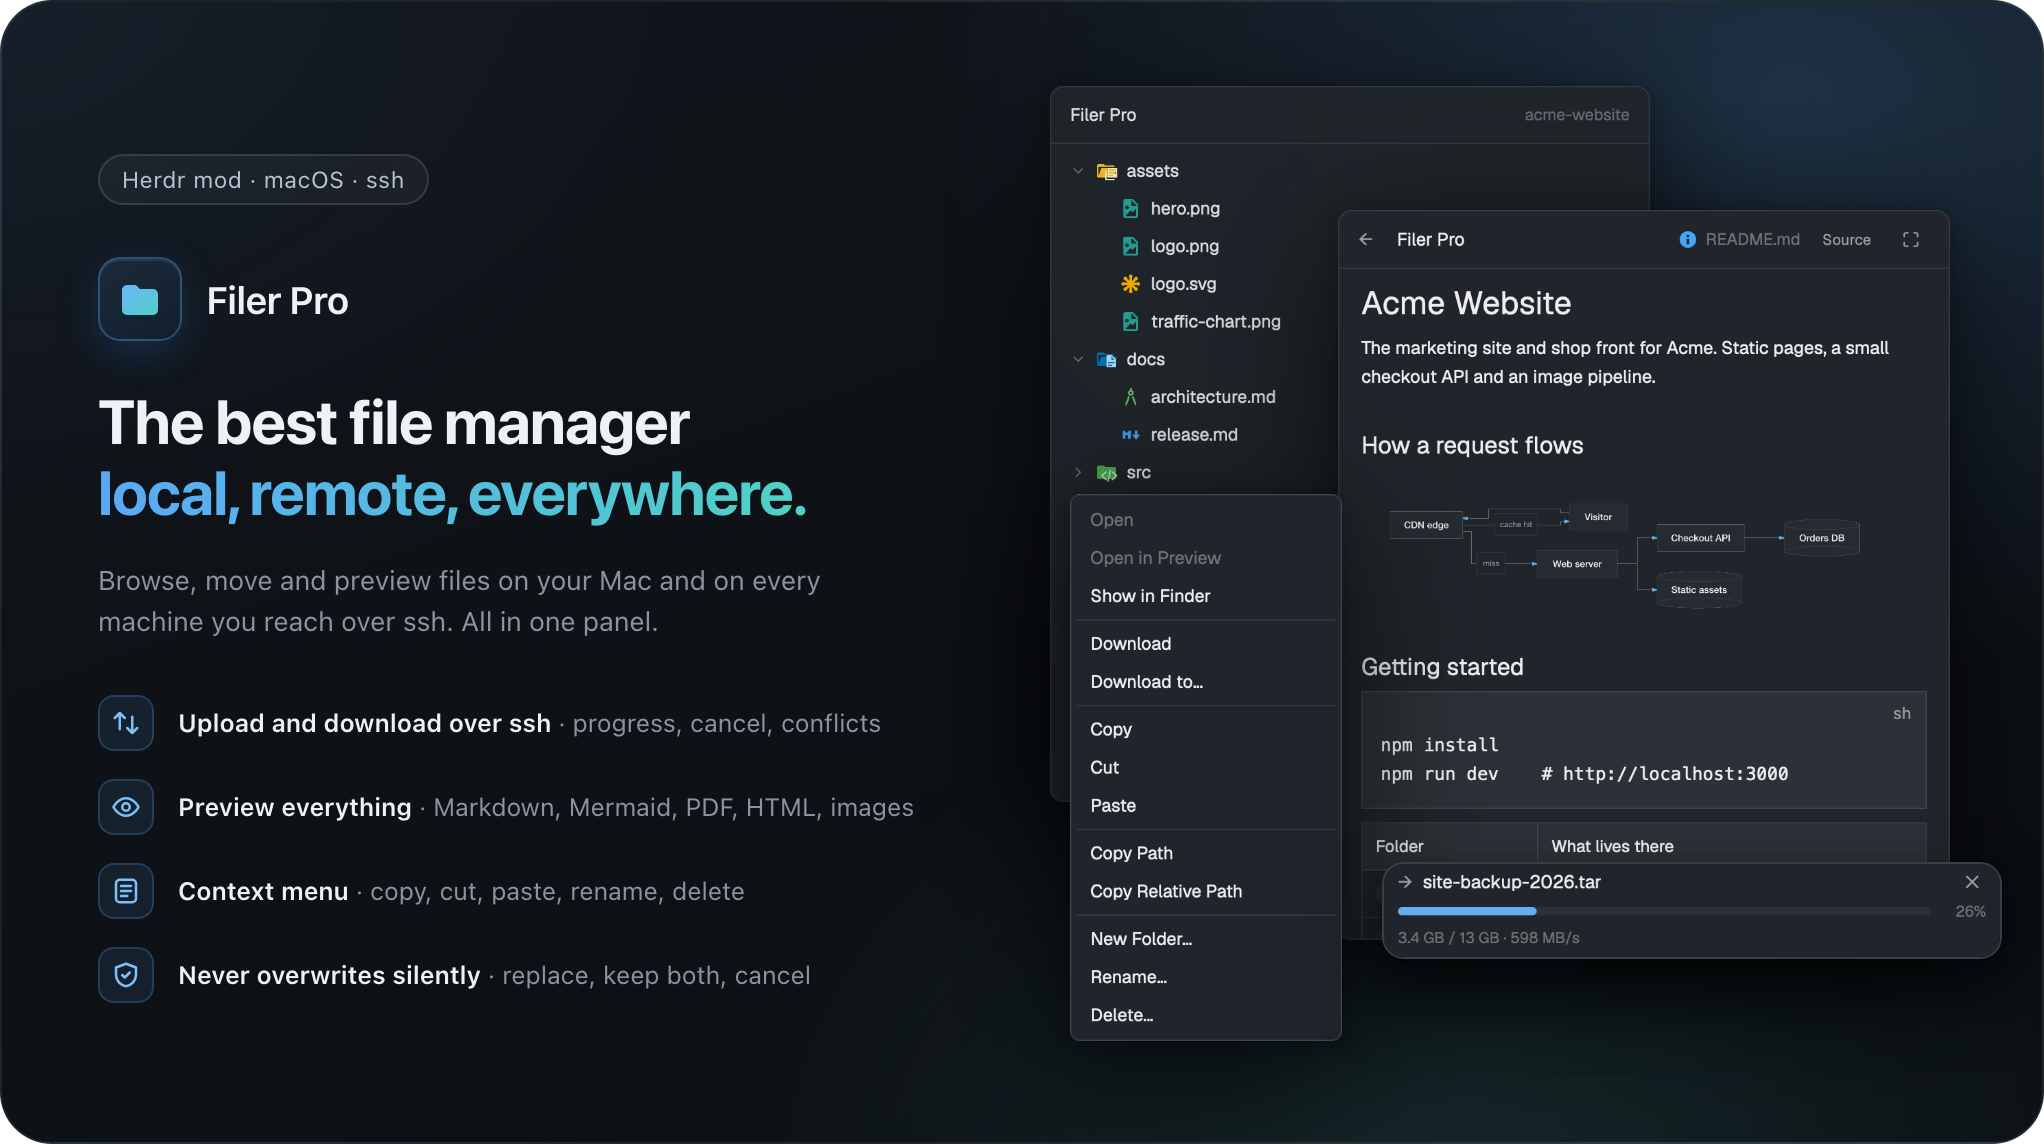
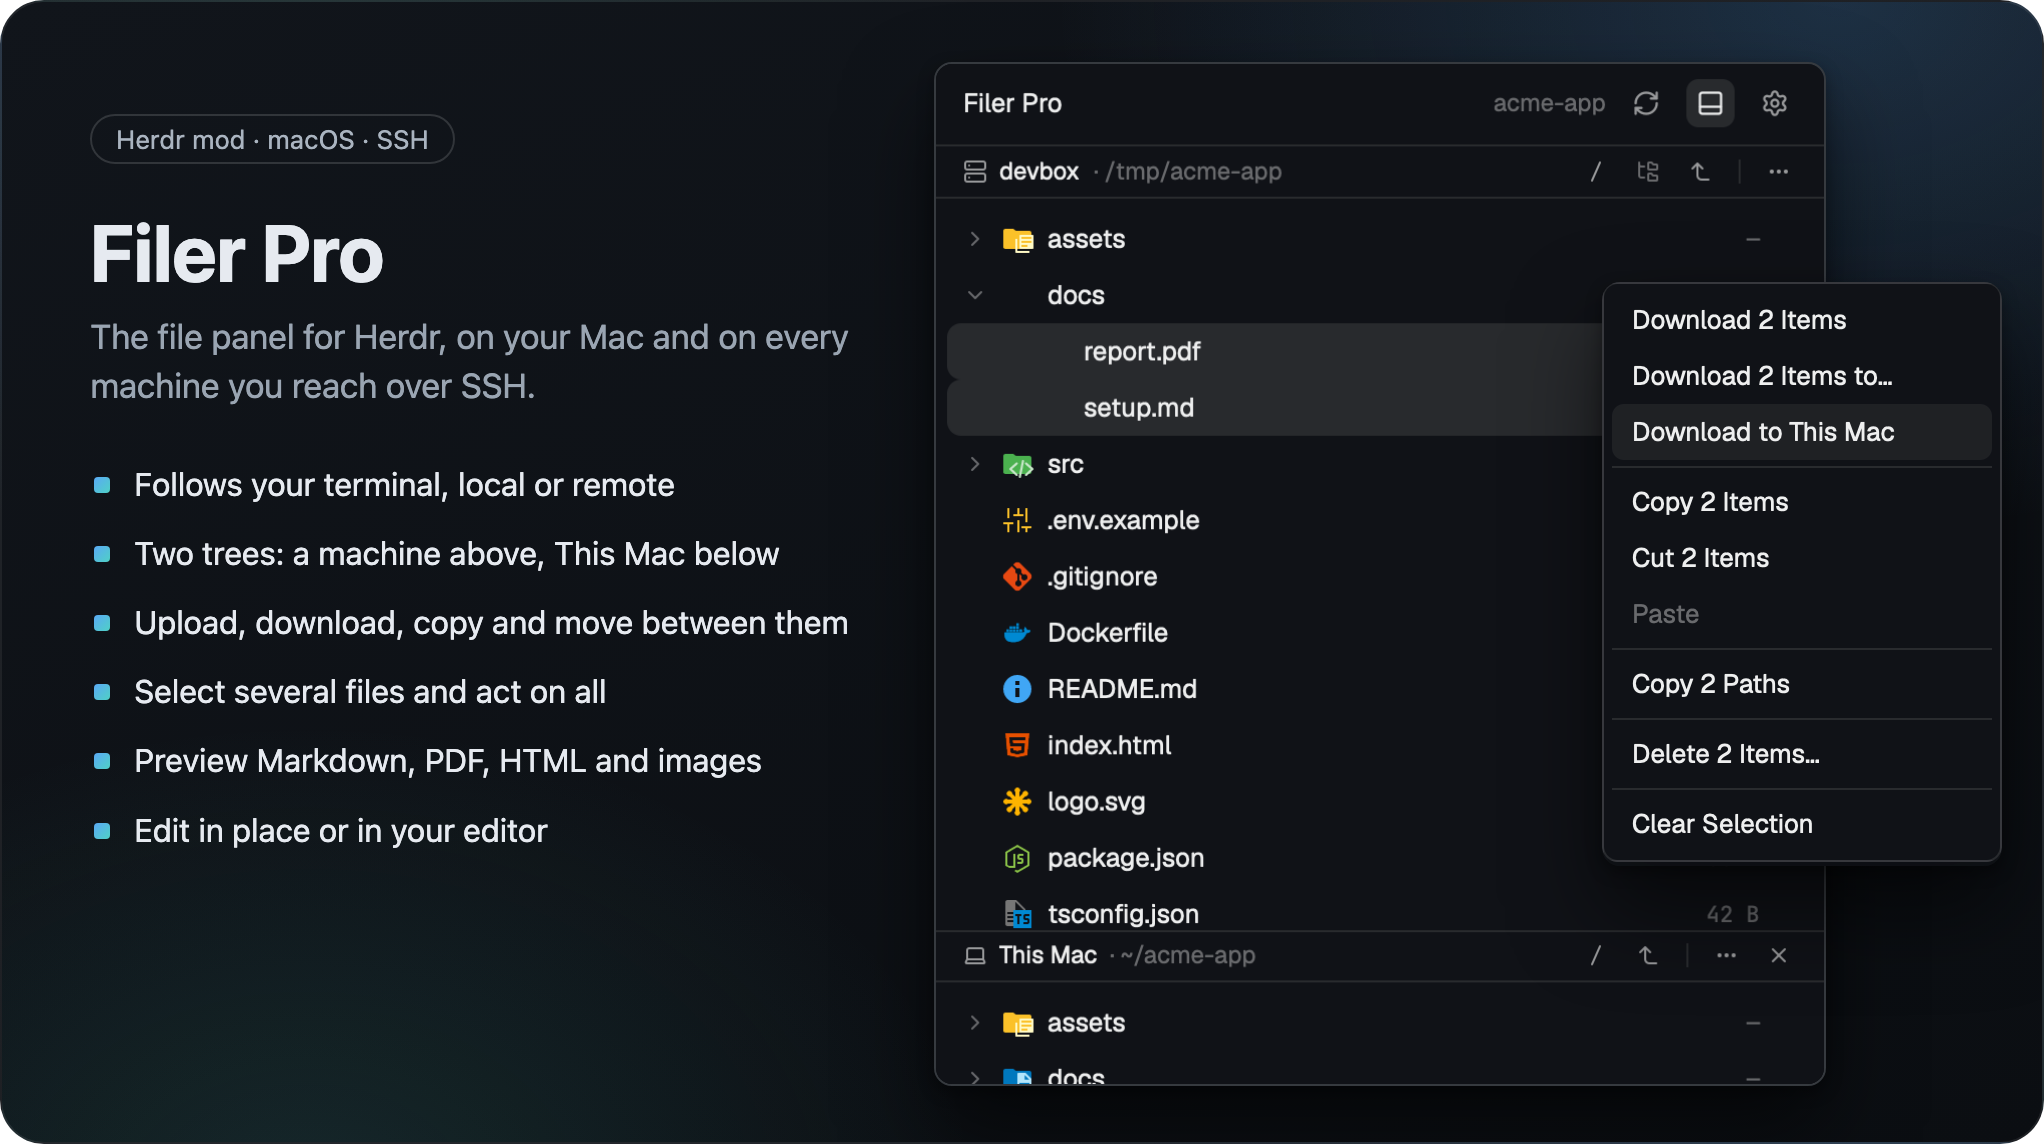
docs: hero and transfers cards for 1.4
- preview.png is a card now (cards/hero.html): the devbox tree over This
  Mac with two files selected and their menu, the key features as text
- transfers.png from two shots: a download in the transfers bar and the
  conflict dialog, both set through the demo hook (nothing runs)
- demo-hook.mjs: jobs and conflict ops

diff --git a/scripts/screenshots/cards/hero.html b/scripts/screenshots/cards/hero.html
@@ -1,0 +1,35 @@
+<!DOCTYPE html>
+<html lang="en"><head><meta charset="utf-8"><title>Hero card</title>
+<link rel="stylesheet" href="card.css">
+<style>
+/* layout: the README hero. Left: name, tagline and the key features as text. Right: the devbox tree over This Mac with two
+   files selected, the menu for both beside it. The bullets follow the README intro. */
+html, body { width: 1022px; height: 572px; }
+.copy { position: absolute; left: 44px; top: 56px; width: 400px; color: #e6eaf0; font-family: -apple-system, "SF Pro Text", "Inter", system-ui, sans-serif; }
+.badge { display: inline-block; font-size: 13px; color: #aab4c0; border: 1px solid rgba(255,255,255,0.14); border-radius: 999px; padding: 4px 12px; }
+h1 { font-size: 40px; line-height: 1.1; font-weight: 700; margin: 22px 0 8px; letter-spacing: -0.01em; }
+.tag { font-size: 17px; line-height: 1.45; color: #9aa5b2; margin-bottom: 26px; }
+ul { list-style: none; display: grid; gap: 13px; }
+li { font-size: 16px; line-height: 1.35; padding-left: 22px; position: relative; }
+li::before { content: ""; position: absolute; left: 2px; top: 7px; width: 8px; height: 8px; border-radius: 2px; background: linear-gradient(135deg, #5aa9f5, #4fd1c5); }
+.tree { left: 466px; top: 30px; width: 446px; height: 512px; }
+.shot.cut.tree { border-color: #363a3f; }
+.menu { left: 800px; top: 140px; width: 200px; border-radius: 9px; }
+</style></head>
+<body><div class="frame">
+  <div class="copy">
+    <span class="badge">Herdr mod · macOS · SSH</span>
+    <h1>Filer Pro</h1>
+    <div class="tag">The file panel for Herdr, on your Mac and on every machine you reach over SSH.</div>
+    <ul>
+      <li>Follows your terminal, local or remote</li>
+      <li>Two trees: a machine above, This Mac below</li>
+      <li>Upload, download, copy and move between them</li>
+      <li>Select several files and act on all</li>
+      <li>Preview Markdown, PDF, HTML and images</li>
+      <li>Edit in place or in your editor</li>
+    </ul>
+  </div>
+  <div class="shot cut tree"><img src="hero-tree.png" alt=""></div>
+  <div class="shot menu"><img src="hero-menu.png" alt=""></div>
+</div></body></html>

diff --git a/scripts/screenshots/cards/transfers.html b/scripts/screenshots/cards/transfers.html
@@ -1,0 +1,13 @@
+<!DOCTYPE html>
+<html lang="en"><head><meta charset="utf-8"><title>Transfers card</title>
+<link rel="stylesheet" href="card.css">
+<style>
+/* layout: the devbox tree over This Mac with a download in the transfers bar at the bottom, the conflict dialog over its right half */
+html, body { width: 880px; height: 792px; }
+.tree { left: 60px; top: 30px; width: 446px; height: 732px; }
+.dialog { left: 400px; top: 250px; width: 440px; height: 240px; }
+</style></head>
+<body><div class="frame">
+  <div class="shot cut tree"><img src="transfers-tree.png" alt=""></div>
+  <div class="shot dialog"><img src="transfers-dialog.png" alt=""></div>
+</div></body></html>

diff --git a/scripts/screenshots/README.md b/scripts/screenshots/README.md
@@ -8,9 +8,9 @@ The README images in `screenshots/` are cards: crops of a running Herdr window, 
 scripts/screenshots/shoot.sh
 ```
 
-`scripts/screenshots/shoot.sh browse extract` shoots only the named cards (preview, formats, browse, editors, extract, edit-terminal, pdf-fullscreen, settings, show-as-root, select, machine, folder-actions); `CROP_ONLY=1` re-crops and renders from the raw shots in `tmp/shots-raw` without launching anything.
+`scripts/screenshots/shoot.sh browse extract` shoots only the named cards (preview, formats, browse, editors, extract, edit-terminal, pdf-fullscreen, settings, show-as-root, select, machine, folder-actions, transfers, hero); `hero` renders `preview.png` at the top of the README, with its feature list as text on the card (`cards/hero.html`, keep it in line with the README intro); `CROP_ONLY=1` re-crops and renders from the raw shots in `tmp/shots-raw` without launching anything.
 
-`machine` and `folder-actions` show a machine tree and need an SSH host: `DEMO_MACHINE=<ssh target> scripts/screenshots/shoot.sh`. The host shows as `devbox` and gets the demo project in `/tmp/acme-app` (a machine tree shows the full path, so a folder below `/home/<user>` would show the user name). Without `DEMO_MACHINE` both cards are skipped.
+`machine`, `folder-actions`, `transfers` and `hero` show a machine tree and need an SSH host: `DEMO_MACHINE=<ssh target> scripts/screenshots/shoot.sh`. The host shows as `devbox` and gets the demo project in `/tmp/acme-app` (a machine tree shows the full path, so a folder below `/home/<user>` would show the user name). Without `DEMO_MACHINE` these cards are skipped.
 
 It prepares a separate Herdr instance, launches it once, sets every state without mouse or keyboard, takes the shots, quits the instance, crops them and renders all cards into `screenshots/`. Needs macOS, Herdr.app, Microsoft Edge (headless, no window), `node`, `zip` and `sips`. Look at every image before you commit it: no user name, no path outside `~/acme-app` (and `/tmp/acme-app` on `devbox`), no real host name.
 
@@ -22,7 +22,7 @@ What it never does: touch your own Herdr or its installed mod, use `osascript`, 
 
 - `shoot.sh`: the whole run (prepare, launch, drive, shoot, quit, clean, crop, render). The crop boxes are raw pixels of the default window (1280 x 820 points at 2x, panel 446 points wide, app zoom 1); it stops when the window has another size.
 - `demo-instance.sh`: `prepare | start | space | machine | quit | clean` for the separate instance. Its `HERDR_APP_HOME` is `tmp/shots-home` and its core session `filerpro-shots`. `prepare` copies `demo/acme-app` to `~/acme-app` (the pane header shows that path, and it refuses to overwrite an existing folder), generates `report.pdf`, `hero.png` and `release.zip` from `demo/gen/` (headless Edge, `zip`), copies the mod of this checkout and writes a layout with the panel shown. It also marks the welcome screen (`frame.welcomed` in `shared.json`) and the what's-new window (`last_run` in `update-notes.json`) as done, so a new instance opens no popup that would need a click. `machine` copies the demo to `/tmp/acme-app` on `DEMO_MACHINE` (it refuses to overwrite) and adds that host to this instance's core only, as `devbox`, with its own hc session there: `~/.ssh/config` and the machines of your own Herdr stay as they are. `clean` deletes both again, the remote session included.
-- `demo-hook.mjs`: patches the instance's copy of the mod (never `mods/filer-pro`, never your installed mod) so the panel polls `$HERDR_APP_HOME/demo-cmd.json` and sets the state a click or hover would set, through the real code: expanded folders, Calculate Size, the row menu with one entry hovered, the Settings dialog scrolled to a section, the fullscreen PDF with two pages, the lower tree on or off (`{"op":"localtree","shown":true}`, optional `root` and `sizes`), a selection (`{"op":"select","paths":[…],"boxes":true}`), the Folder actions menu (`rootmenu`). `"tree":"pinned"` points a command at the lower tree. It stops loudly when an anchor in the mod has moved; `test/screenshot-hook.test.js` applies it to the current mod on every `npm test`, and checks that the shipped mod has no trace of it.
+- `demo-hook.mjs`: patches the instance's copy of the mod (never `mods/filer-pro`, never your installed mod) so the panel polls `$HERDR_APP_HOME/demo-cmd.json` and sets the state a click or hover would set, through the real code: expanded folders, Calculate Size, the row menu with one entry hovered, the Settings dialog scrolled to a section, the fullscreen PDF with two pages, the lower tree on or off (`{"op":"localtree","shown":true}`, optional `root` and `sizes`), a selection (`{"op":"select","paths":[…],"boxes":true}`), the Folder actions menu (`rootmenu`), a made-up job in the transfers bar (`jobs`: shown only, nothing runs) and the conflict dialog with a made-up case (`conflict`). `"tree":"pinned"` points a command at the lower tree. It stops loudly when an anchor in the mod has moved; `test/screenshot-hook.test.js` applies it to the current mod on every `npm test`, and checks that the shipped mod has no trace of it.
 - `render.sh`: renders a card into a PNG with headless Microsoft Edge (`EDGE=/path/to/browser` picks another Chromium-based browser).
 - `cards/card.css`, `cards/*.html`: the shared frame and one card per image, each listing its crops and their positions in CSS pixels. The crops (`cards/*.png`) and the browser profile are ignored by git: they hold window content, only the finished card goes into `screenshots/`.
 - `demo/acme-app/`, `demo/gen/`: the demo project and the sources of its generated binary files.
